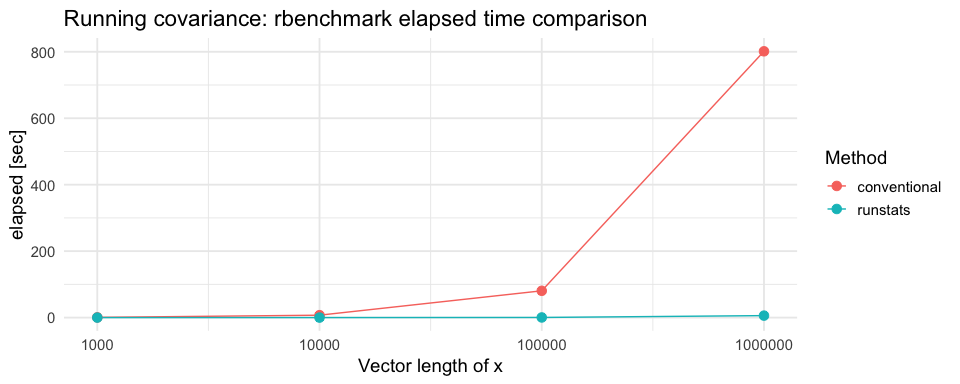
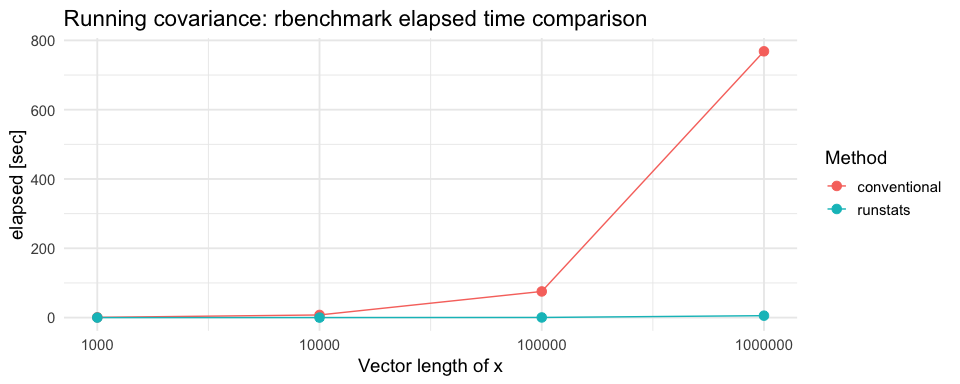
move things from static to inst

diff --git a/README.md b/README.md
@@ -95,10 +95,10 @@ knitr::kable(out.df)
 | test     |  replications|  elapsed|  relative|  user.self|  sys.self|  x\_length|  pattern\_length|
 |:---------|-------------:|--------:|---------:|----------:|---------:|----------:|----------------:|
 | runstats |            10|    0.003|         1|      0.003|     0.000|       1000|              100|
-| runstats |            10|    0.026|         1|      0.022|     0.005|      10000|              100|
-| runstats |            10|    0.372|         1|      0.320|     0.050|     100000|              100|
-| runstats |            10|    5.768|         1|      5.529|     0.223|    1000000|              100|
-| runstats |            10|  124.837|         1|    119.587|     4.927|   10000000|              100|
+| runstats |            10|    0.031|         1|      0.025|     0.006|      10000|              100|
+| runstats |            10|    0.385|         1|      0.328|     0.056|     100000|              100|
+| runstats |            10|    5.694|         1|      5.509|     0.171|    1000000|              100|
+| runstats |            10|  126.393|         1|    121.007|     4.954|   10000000|              100|
 
 ##### Compare with a conventional method
 
@@ -133,7 +133,7 @@ Benchmark results
 ``` r
 library(ggplot2)
 ggplot(out.df2, aes(x = x_length, y = elapsed, color = test)) + 
-  geom_line() +  geom_point(size = 3) + scale_x_log10() + 
+  geom_line() + geom_point(size = 3) + scale_x_log10() + 
   theme_minimal(base_size = 14) + 
   labs(x = "Vector length of x",
        y = "elapsed [sec]", color = "Method", 
